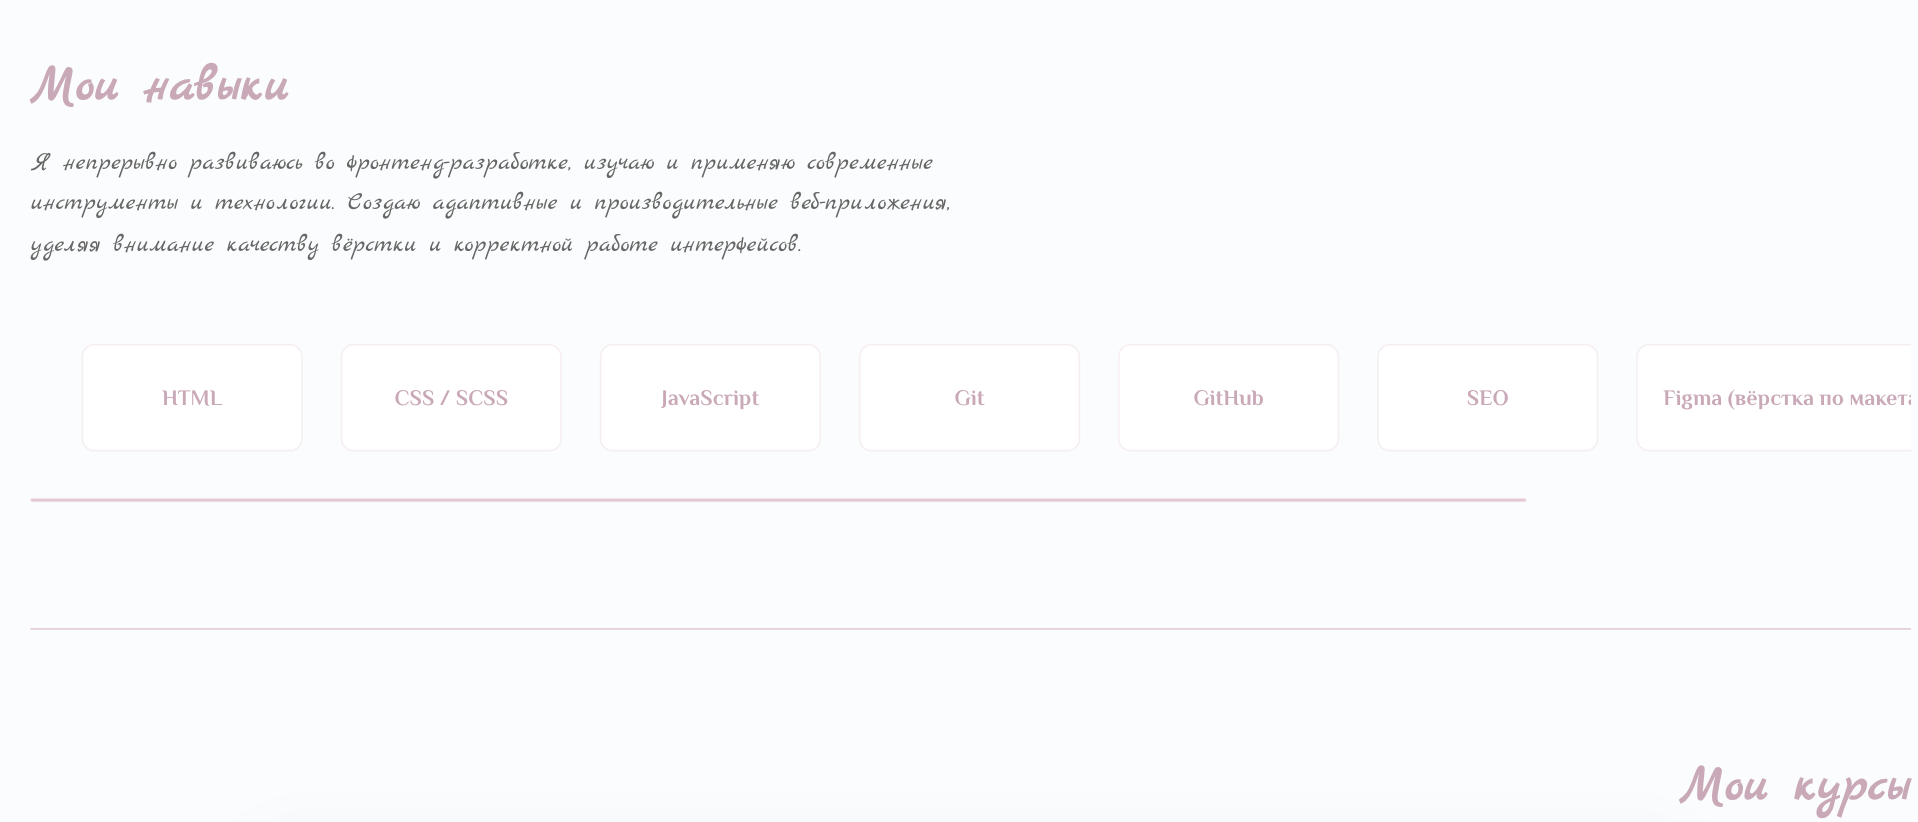
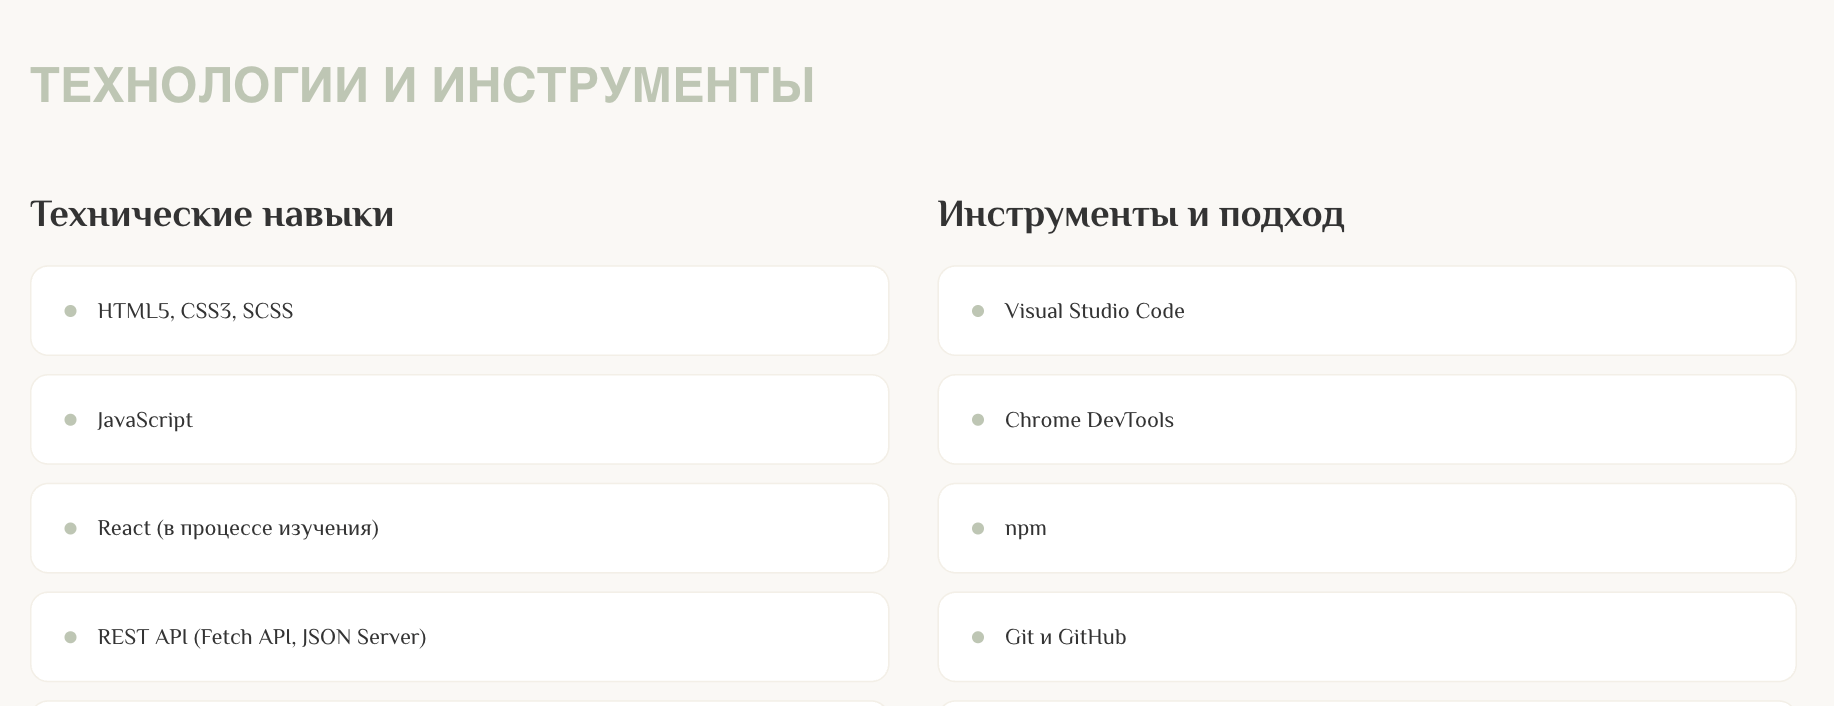
Update skills/courses: centering, toggle Load More/Show Less

diff --git a/styles/main.css b/styles/main.css
@@ -1916,6 +1916,7 @@ section {
   color: #BCC6B2;
   margin: 0 0 1rem 0;
   line-height: 1.2;
+  text-align: center;
 }
 @media (max-width: 47.99875rem) {
   .skills-title,
@@ -1931,9 +1932,10 @@ section {
   font-size: 1rem;
   font-weight: 400;
   color: #666666;
-  margin: 0;
+  margin: 0 auto;
   line-height: 1.6;
   max-width: 37.5rem;
+  text-align: center;
 }
 @media (max-width: 47.99875rem) {
   .skills-description,
@@ -1971,12 +1973,27 @@ section {
   }
 }
 
+.skills-columns.js-load-more-content {
+  overflow: hidden;
+  max-height: 3000px;
+  transition: max-height 0.6s ease;
+}
+.skills-columns.js-load-more-content.is-hidden {
+  max-height: 420px;
+}
+@media (max-width: 47.99875rem) {
+  .skills-columns.js-load-more-content.is-hidden {
+    max-height: 320px;
+  }
+}
+
 .skills-col__title {
   font-family: "Philosopher", sans-serif;
   font-size: clamp(1.25rem, 1.0888429752rem + 0.6611570248vw, 1.75rem);
   font-weight: 700;
   color: #333333;
   margin: 0 0 1.25rem 0;
+  text-align: center;
 }
 .skills-col__title--spaced {
   margin-top: 2rem;
@@ -2032,6 +2049,10 @@ section {
 }
 
 .skills-list__link {
+  display: flex;
+  align-items: center;
+  gap: 0.875rem;
+  width: 100%;
   color: inherit;
   text-decoration: none;
 }
@@ -2059,15 +2080,49 @@ section {
   font-size: 0.9375rem;
   color: #666666;
   font-style: italic;
+  text-align: center;
 }
 
-.skills-list__link {
+.load-more {
   display: flex;
   align-items: center;
-  gap: 0.875rem;
-  width: 100%;
-  color: inherit;
-  text-decoration: none;
+  justify-content: center;
+  gap: 0.625rem;
+  margin: 1.5rem auto 0;
+  padding: 0.625rem 1.25rem;
+  background: none;
+  border: none;
+  cursor: pointer;
+  font-family: "Philosopher", sans-serif;
+  font-size: 0.8125rem;
+  font-weight: 700;
+  letter-spacing: 0.125rem;
+  text-transform: uppercase;
+  color: #333333;
+  transition: color 0.3s ease;
+}
+.load-more__arrow {
+  font-size: 0.875rem;
+  transition: transform 0.3s ease;
+}
+.load-more__arrow--up {
+  transform: rotate(180deg);
+}
+@media (any-hover: hover) {
+  .load-more:hover {
+    color: #BCC6B2;
+  }
+  .load-more__arrow:not(.load-more:hover--up) {
+    transform: translateY(0.1875rem);
+  }
+}
+@media (any-hover: none) {
+  .load-more:active {
+    color: #BCC6B2;
+  }
+  .load-more__arrow:not(.load-more:active--up) {
+    transform: translateY(0.1875rem);
+  }
 }
 
 .contacts-section {

diff --git a/styles/blocks/_skills.scss b/styles/blocks/_skills.scss
@@ -45,6 +45,7 @@
     color: $color-bg-green;
     margin: 0 0 rem(16) 0;
     line-height: 1.2;
+    text-align: center;
 
     @include mobile {
         font-size: rem(24);
@@ -58,9 +59,10 @@
     font-size: rem(16);
     font-weight: 400;
     color: $color-text-light;
-    margin: 0;
+    margin: 0 auto;
     line-height: 1.6;
     max-width: rem(600);
+    text-align: center;
 
     @include mobile {
         font-size: rem(14);
@@ -90,12 +92,28 @@
     }
 }
 
+// РАСКРЫВАЮЩИЙСЯ БЛОК (Load More на весь .skills-columns целиком)
+.skills-columns.js-load-more-content {
+    overflow: hidden;
+    max-height: 3000px;
+    transition: max-height 0.6s ease;
+
+    &.is-hidden {
+        max-height: 420px;
+
+        @include mobile {
+            max-height: 320px;
+        }
+    }
+}
+
 .skills-col__title {
     font-family: 'Philosopher', sans-serif;
     font-size: fluid(28, 20);
     font-weight: 700;
     color: $color-text;
     margin: 0 0 rem(20) 0;
+    text-align: center;
 
     &--spaced {
         margin-top: rem(32);
@@ -143,6 +161,10 @@
 }
 
 .skills-list__link {
+    display: flex;
+    align-items: center;
+    gap: rem(14);
+    width: 100%;
     color: inherit;
     text-decoration: none;
 
@@ -164,13 +186,42 @@
     font-size: rem(15);
     color: $color-text-light;
     font-style: italic;
+    text-align: center;
 }
 
-.skills-list__link {
+// КНОПКА LOAD MORE
+.load-more {
     display: flex;
     align-items: center;
-    gap: rem(14);
-    width: 100%;
-    color: inherit;
-    text-decoration: none;
+    justify-content: center;
+    gap: rem(10);
+    margin: rem(24) auto 0;
+    padding: rem(10) rem(20);
+    background: none;
+    border: none;
+    cursor: pointer;
+    font-family: 'Philosopher', sans-serif;
+    font-size: rem(13);
+    font-weight: 700;
+    letter-spacing: rem(2);
+    text-transform: uppercase;
+    color: $color-text;
+    transition: color 0.3s ease;
+
+    &__arrow {
+        font-size: rem(14);
+        transition: transform 0.3s ease;
+
+        &--up {
+            transform: rotate(180deg);
+        }
+    }
+
+    @include hover {
+        color: $color-bg-green;
+
+        .load-more__arrow:not(&--up) {
+            transform: translateY(rem(3));
+        }
+    }
 }

diff --git a/scripts/loadMore.js b/scripts/loadMore.js
@@ -1,0 +1,28 @@
+export function initLoadMore() {
+    document.querySelectorAll('.js-load-more-content').forEach((block) => {
+        block.classList.add('is-hidden');
+
+        const button = document.createElement('button');
+        button.type = 'button';
+        button.className = 'load-more';
+
+        const setLabel = (isHidden) => {
+            button.innerHTML = isHidden
+                ? `<span>Load</span><span class="load-more__arrow">↓</span><span>More</span>`
+                : `<span>Show</span><span class="load-more__arrow load-more__arrow--up">↑</span><span>Less</span>`;
+        };
+
+        setLabel(true);
+
+        button.addEventListener('click', () => {
+            const isHidden = block.classList.toggle('is-hidden');
+            setLabel(isHidden);
+
+            if (isHidden) {
+                block.scrollIntoView({ behavior: 'smooth', block: 'start' });
+            }
+        });
+
+        block.insertAdjacentElement('afterend', button);
+    });
+}

diff --git a/skills.html b/skills.html
@@ -53,7 +53,7 @@
                 <h2 class="skills-title">ТЕХНОЛОГИИ И ИНСТРУМЕНТЫ</h2>
             </div>
 
-            <div class="skills-columns">
+            <div class="skills-columns js-load-more-content">
                 <div class="skills-col">
                     <h3 class="skills-col__title">Технические навыки</h3>
                     <ul class="skills-list">
@@ -99,7 +99,7 @@
                 <h2 class="courses-title">ОБУЧЕНИЕ И СЕРТИФИКАТЫ</h2>
             </div>
 
-            <div class="skills-columns">
+            <div class="skills-columns js-load-more-content">
                 <div class="skills-col">
                     <h3 class="skills-col__title">Курсы Stepik</h3>
                     <p class="courses-description">

diff --git a/scripts/main.js b/scripts/main.js
@@ -2,8 +2,10 @@ import { initBurger } from './burger.js';
 import { initLoader } from './loader.js';
 import { initCookies } from './cookies.js';
 import { initCursor } from './cursor.js';
+import { initLoadMore } from './loadMore.js';
 
 initBurger();
 initLoader();
 initCookies();
 initCursor();
+initLoadMore();
